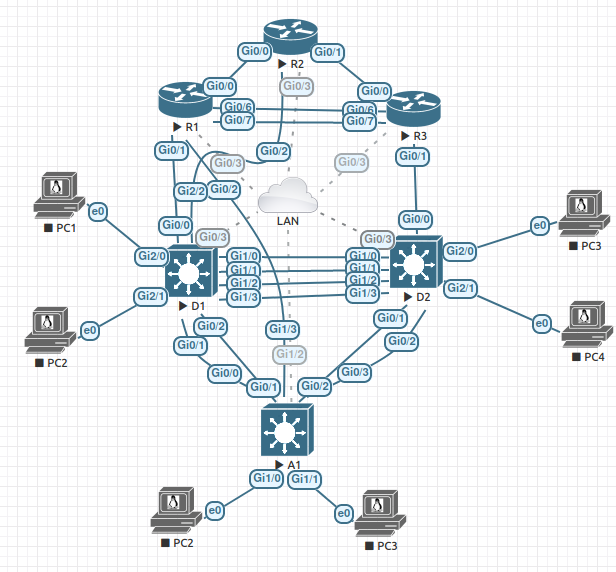
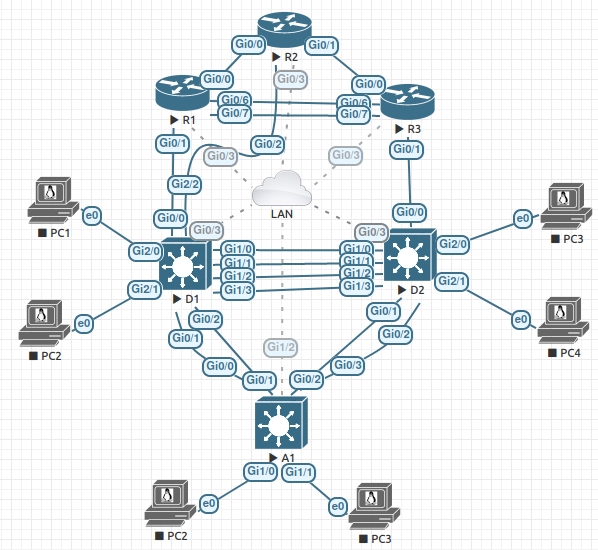
Modified two labs to get rid of one extra link, and flipped organization of destroy file

Changed region(s): [[0.0301, 0.0, 1.0, 0.9891], [0.4816, 0.3091, 0.5117, 0.34]]

diff --git a/README.md b/README.md
@@ -1,6 +1,6 @@
 # CCNP ENARSI Lab Manual v8 Ansible Configuration
 
-![](./images/topo.png)
+![Lab Topology](./images/topo.png)
 
 ## Purpose
 
@@ -23,7 +23,7 @@ Feel free to copy the topology I created above. Once that is done make sure each
 
 Once the nodes have all of their connections. The setup for all nodes is the same. Create MGMT VRF, assign management port to management VRF, and enable ssh. Below is a sample of the commands used on a Cisco device.
 
-```
+```python
 hostname RTR1
 ip domain name lab.com
 
@@ -56,7 +56,7 @@ Feel free to modify the hosts file to match whatever IP schema you choose.
 
 This guide assumes you have some machine that can run Ansible and has connectivity to your nodes.
 
-```
+```bash
 git clone https://github.com/JulioPDX/ccnp_enarsi_lab_manual.git
 cd ccnp_enarsi_lab_manual
 pip3 install -r requirements.txt
@@ -69,7 +69,7 @@ ansible-galaxy collection install cisco.ios
 
 Every lab has an individual folder for each node. This is used when running the playbook and loading in the correct variables.
 
-```
+```bash
 labs/01_2.1.2/
 ├── A1.yaml
 ├── D1.yaml
@@ -198,8 +198,19 @@ The configuration portion for the most part has pretty specific roles. Each havi
         fail_msg: "no lab defined, please add extra vars defining lab variable"
         # Example ansible-playbook destroy.yaml -e lab=01_2.1.2
 
-- name: Reset devices
-  hosts: cisco
+- name: reset switch layer 2 stuffs
+  hosts: switches
+  gather_facts: False
+  strategy: free
+  vars_files:
+    - ./labs/{{ lab }}/{{ inventory_hostname }}.yaml
+  roles:
+  - destroy_lab
+  - destroy_vlans
+  - reset_reload
+
+- name: Reset routers
+  hosts: routers
   gather_facts: False
   strategy: free
   vars_files:
@@ -207,6 +218,11 @@ The configuration portion for the most part has pretty specific roles. Each havi
   roles:
   - destroy_lab
   # - reset_reload # Not working for IOSv Routers
+
+  tasks:
+    - name: save config before reload
+      cisco.ios.ios_config:
+        save_when: always
 ```
 
 In the second playbook above, there is only one role called. But in actuality it is calling many reset files. This was mainly done for my sanity as the number of roles kept growing. I tried to make the destroy portion one small role... but that ended up growing either way. Anywho, below is a snip of the main.yaml file in the destroy_lab role.
@@ -286,6 +302,17 @@ Below is the reset_routing task file that is called from the main.yaml file abov
 ## Lab workflow
 
 When creating this I worked through the book from front to back. Build lab, work through lab, and destroy lab once complete. The way this project was structured you can jump around between labs. As long as you reset the lab before moving on to the next.
+
+### Lab Deploy Example
+Here from the hub router perspective, none of the devices are configired, lab ask you to  begin with a confgired DMVPN phase3 that was complete from an earlier lab
+
+[![asciicast](https://asciinema.org/a/381759.svg)](https://asciinema.org/a/381759/?speed=2)
+
+### Lab Destroy Example
+
+Here from a spoke router perspective, we are viewing the interface and dmpvn configuiration and the entire lab will be reset
+
+[![asciicast](https://asciinema.org/a/scOYtR7cwyICkn9ABLH0WlznI.svg)](https://asciinema.org/a/scOYtR7cwyICkn9ABLH0WlznI/?speed=2)
 
 ## Caveats
 
